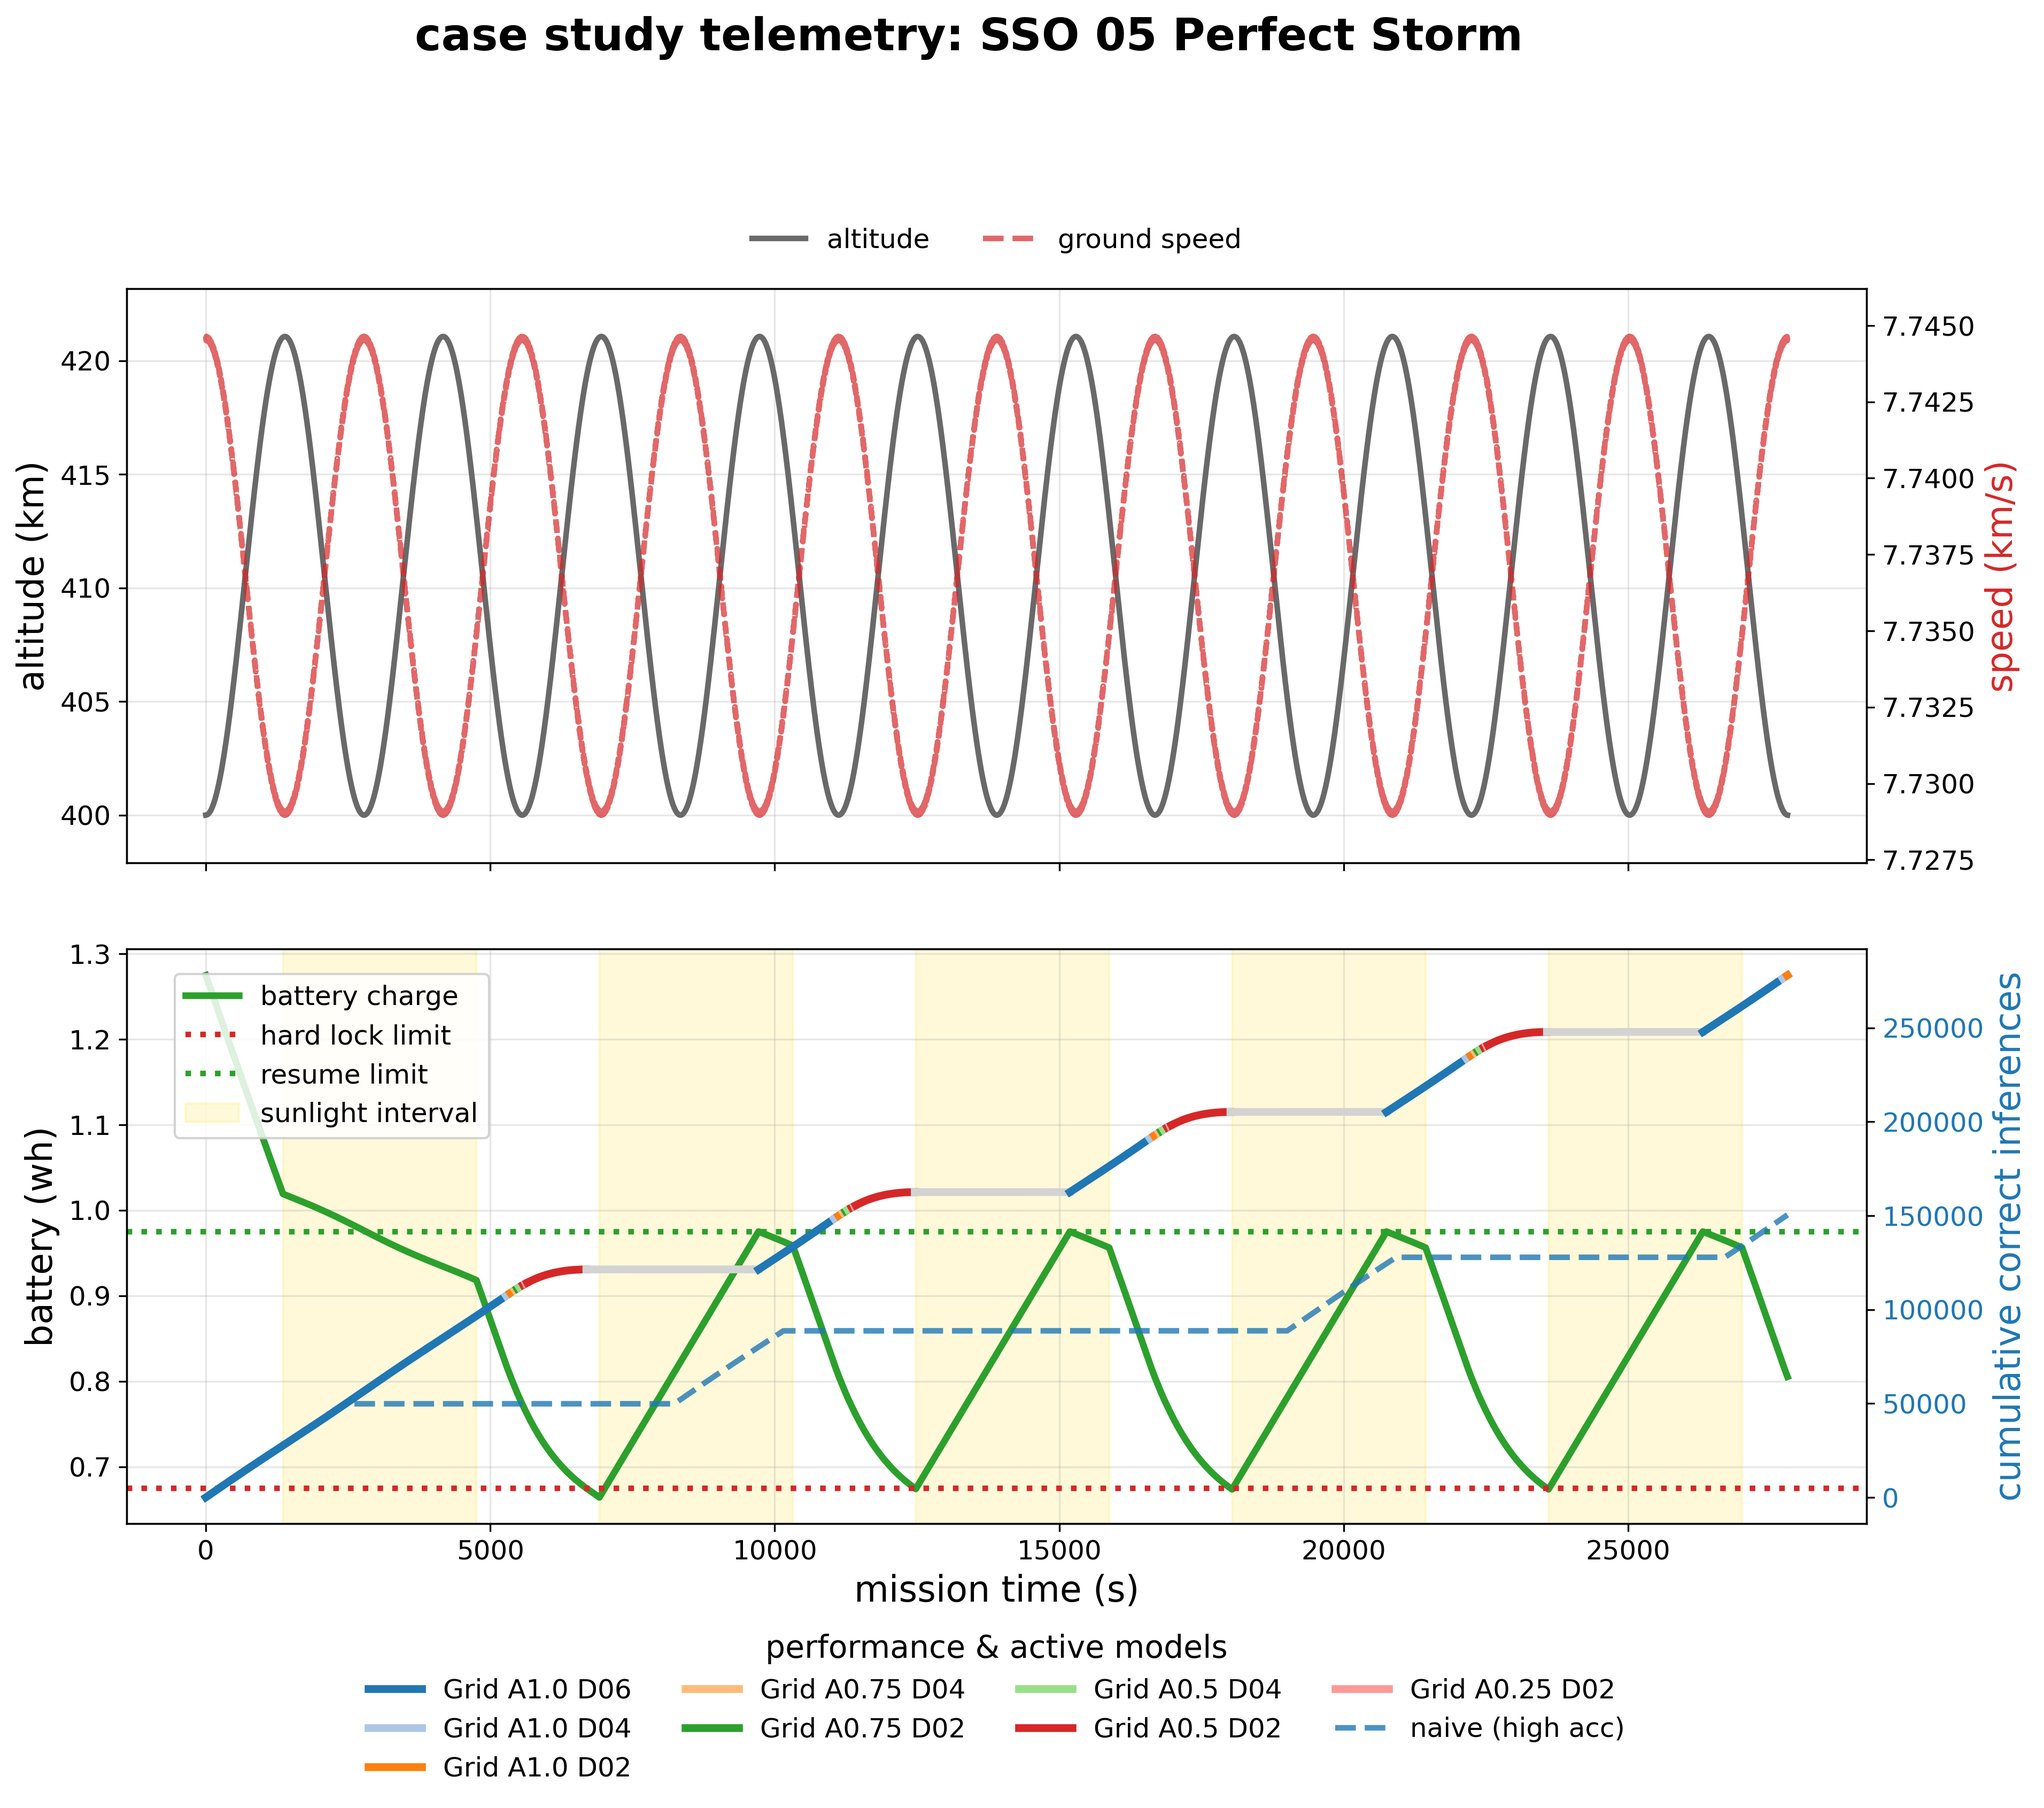
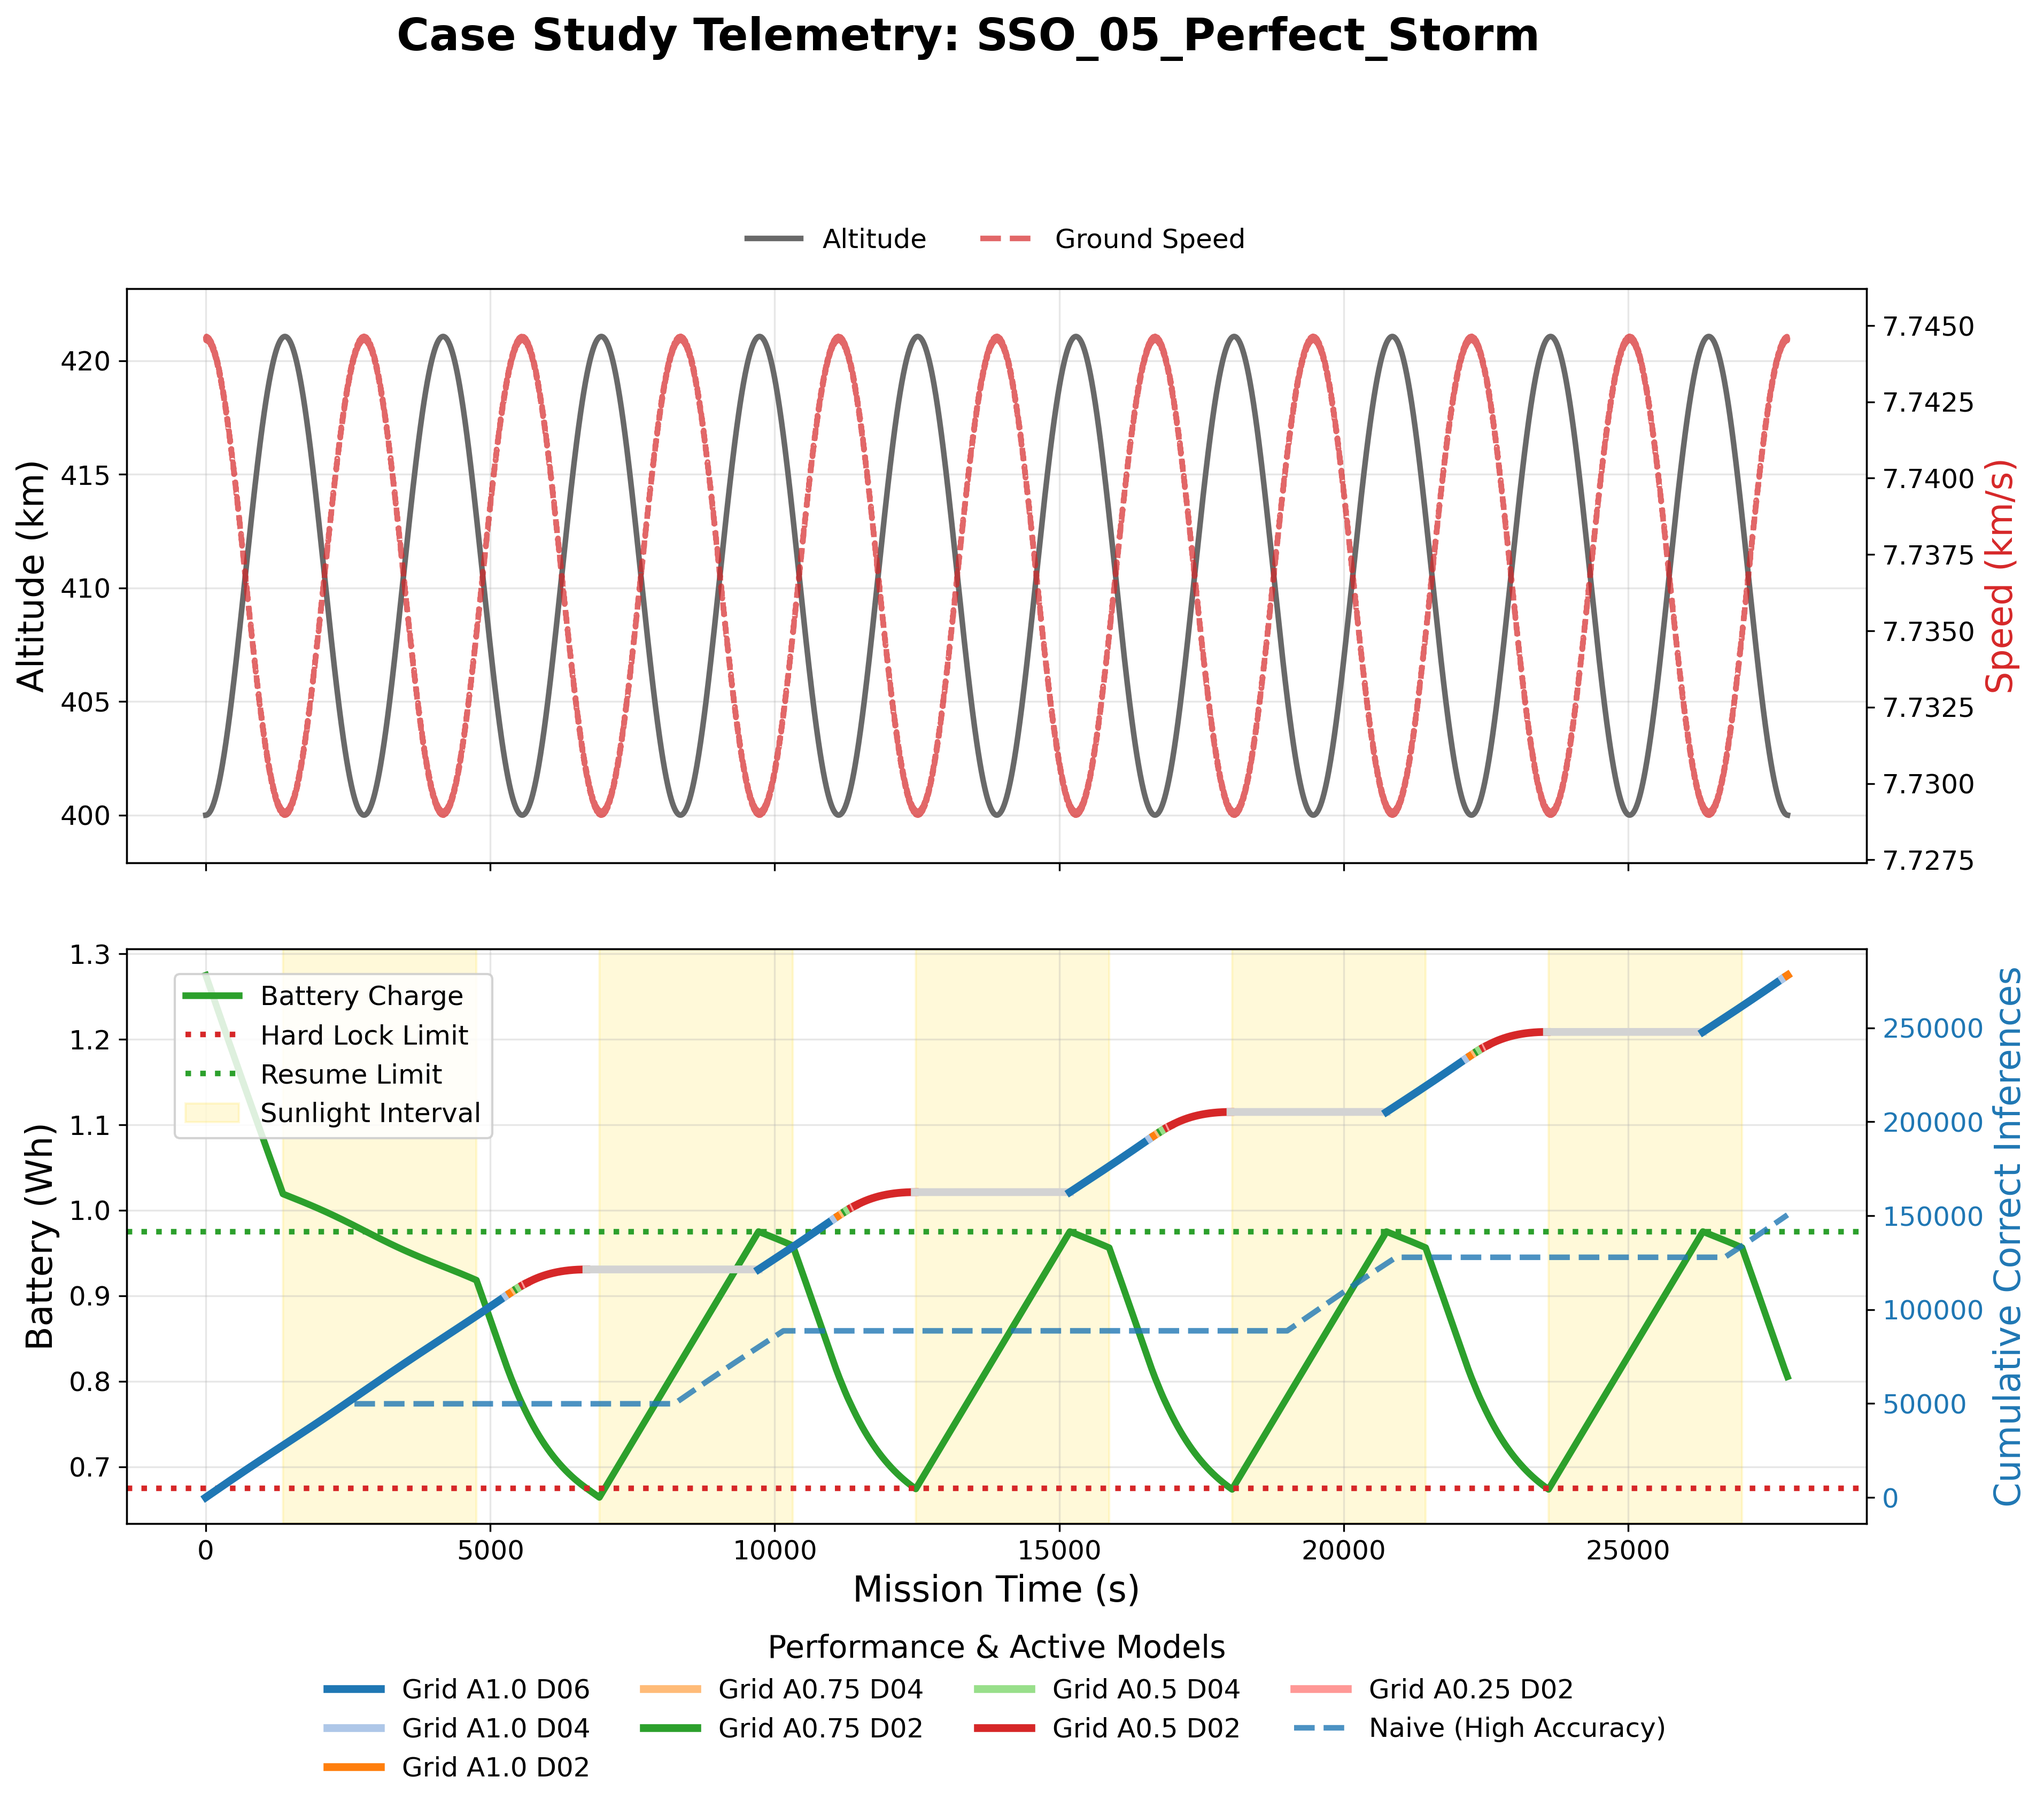
[results] chartsmithing - labels

diff --git a/src/scripts/dynamic_selection_sims/plotting_utils.py b/src/scripts/dynamic_selection_sims/plotting_utils.py
@@ -66,25 +66,24 @@ def plot_mission(logs, naive_states, case_name, cfg, output_dir,
                         plot_efficiency_baseline=False, 
                         plot_throughput_baseline=False):
     set_plot_style()
-    clean_name = case_name.replace('_', ' ')
     t_plot = np.array(logs['time_rel'])
     
     fig, (ax1, ax2) = plt.subplots(2, 1, figsize=(14, 10), sharex=True, gridspec_kw={'hspace': 0.15})
     
     # bump title up to make room for floating legend
-    fig.suptitle(f"case study telemetry: {clean_name}", y=1.05) 
+    fig.suptitle(f"Case Study Telemetry: {case_name}", y=1.05) 
 
     # orbit dynamics
-    ax1.plot(t_plot, logs['alt_km'], color='dimgray', label='altitude')
-    ax1.set_ylabel('altitude (km)')
+    ax1.plot(t_plot, logs['alt_km'], color='dimgray', label='Altitude')
+    ax1.set_ylabel('Altitude (km)')
     
     alt_span = np.max(logs['alt_km']) - np.min(logs['alt_km'])
     if alt_span == 0: alt_span = np.max(logs['alt_km']) * 0.1 
     ax1.set_ylim(np.min(logs['alt_km']) - (0.1 * alt_span), np.max(logs['alt_km']) + (0.1 * alt_span))
     
     ax1_t = ax1.twinx()
-    ax1_t.plot(t_plot, logs['speed_km_s'], color='tab:red', linestyle='--', alpha=0.7, label='ground speed')
-    ax1_t.set_ylabel('speed (km/s)', color='tab:red')
+    ax1_t.plot(t_plot, logs['speed_km_s'], color='tab:red', linestyle='--', alpha=0.7, label='Ground Speed')
+    ax1_t.set_ylabel('Speed (km/s)', color='tab:red')
     
     spd_span = np.max(logs['speed_km_s']) - np.min(logs['speed_km_s'])
     if spd_span == 0: spd_span = np.max(logs['speed_km_s']) * 0.1
@@ -97,16 +96,16 @@ def plot_mission(logs, naive_states, case_name, cfg, output_dir,
     ax1.grid(True, alpha=0.3)
 
     # combined energy & yield
-    ax2.plot(t_plot, logs['battery_wh'], color='tab:green', linewidth=3, label='battery charge')
-    ax2.axhline(cfg['battery_capacity_wh']*cfg['compute_disable_pct'], color='tab:red', linestyle=':', label='hard lock limit')
-    ax2.axhline(cfg['battery_capacity_wh']*cfg['compute_enable_pct'], color='tab:green', linestyle=':', label='resume limit')
+    ax2.plot(t_plot, logs['battery_wh'], color='tab:green', linewidth=3, label='Battery Charge')
+    ax2.axhline(cfg['battery_capacity_wh']*cfg['compute_disable_pct'], color='tab:red', linestyle=':', label='Hard Lock Limit')
+    ax2.axhline(cfg['battery_capacity_wh']*cfg['compute_enable_pct'], color='tab:green', linestyle=':', label='Resume Limit')
     
     lit = np.array(logs['is_lit'])
     ax2.fill_between(t_plot, 0, 1, where=(lit > 0.5), transform=ax2.get_xaxis_transform(), 
-                    color='gold', alpha=0.15, label='sunlight interval')
+                    color='gold', alpha=0.15, label='Sunlight Interval')
     
-    ax2.set_ylabel('battery (wh)')
-    ax2.set_xlabel('mission time (s)')
+    ax2.set_ylabel('Battery (Wh)')
+    ax2.set_xlabel('Mission Time (s)')
     ax2.grid(True, alpha=0.3)
     
     ax2.legend(loc='upper left', frameon=True, framealpha=0.85, bbox_to_anchor=(0.02, 0.98))
@@ -114,33 +113,33 @@ def plot_mission(logs, naive_states, case_name, cfg, output_dir,
     # segmented yield & naive baselines
     ax2_t = ax2.twinx()
     color_dict = _get_model_colors(logs['model_name'])
-    handles, labels = _plot_segmented_line(ax2_t, t_plot, logs['cum_correct'], logs['model_name'], color_dict, ylabel="cumulative correct inferences")
+    handles, labels = _plot_segmented_line(ax2_t, t_plot, logs['cum_correct'], logs['model_name'], color_dict, ylabel="Cumulative Correct Inferences")
     
     # inject requested naive lines
     baseline_colors = {'High_Accuracy': 'tab:blue', 'High_Throughput': 'tab:red', 'High_Efficiency': 'tab:purple'}
     
     if plot_accuracy_baseline and 'High_Accuracy' in naive_states:
         line, = ax2_t.plot(t_plot, naive_states['High_Accuracy']['logs_cum_correct'], 
-                        color=baseline_colors['High_Accuracy'], linestyle='--', alpha=0.8, label='naive (high acc)')
+                        color=baseline_colors['High_Accuracy'], linestyle='--', alpha=0.8, label='Naive (High Accuracy)')
         handles.append(line)
-        labels.append('naive (high acc)')
+        labels.append('Naive (High Accuracy)')
         
     if plot_throughput_baseline and 'High_Throughput' in naive_states:
         line, = ax2_t.plot(t_plot, naive_states['High_Throughput']['logs_cum_correct'], 
-                        color=baseline_colors['High_Throughput'], linestyle='--', alpha=0.8, label='naive (high t-put)')
+                        color=baseline_colors['High_Throughput'], linestyle='--', alpha=0.8, label='Naive (High Throughput)')
         handles.append(line)
-        labels.append('naive (high t-put)')
+        labels.append('Naive (High Throughput)')
         
     if plot_efficiency_baseline and 'High_Efficiency' in naive_states:
         line, = ax2_t.plot(t_plot, naive_states['High_Efficiency']['logs_cum_correct'], 
-                        color=baseline_colors['High_Efficiency'], linestyle='--', alpha=0.8, label='naive (high eff)')
+                        color=baseline_colors['High_Efficiency'], linestyle='--', alpha=0.8, label='Naive (High Efficiency)')
         handles.append(line)
-        labels.append('naive (high eff)')
+        labels.append('Naive (High Efficiency)')
 
     if handles:
         ncol = min(4, len(labels))
         ax2_t.legend(handles, labels, loc='upper center', bbox_to_anchor=(0.5, -0.15), 
-                    ncol=ncol, frameon=False, title="performance & active models")
+                    ncol=ncol, frameon=False, title="Performance & Active Models")
         
     save_path = output_dir / f"{case_name}_telemetry.png"
     plt.savefig(save_path, dpi=300, bbox_inches='tight')
